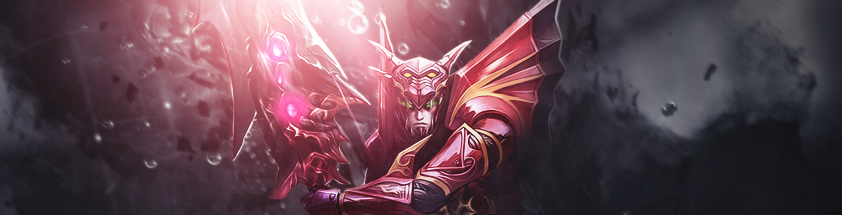
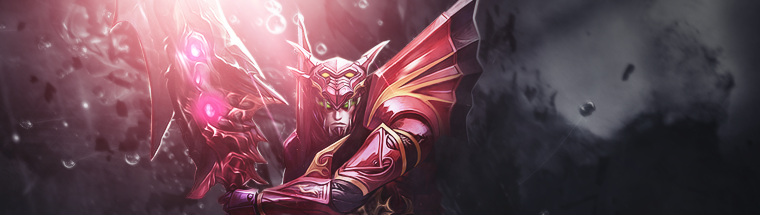
Version 0.1.4 fix3

diff --git a/index.html b/index.html
@@ -22,7 +22,7 @@
 
         <div class="hero">
           <div class="hero-container">
-            <img src="images/hero1.png" alt="">
+            <img src="images/hero.png" alt="">
             <div class="centrado">
               <h2>Mu Online <br>New Age</h2>
             </div>

diff --git a/registro.html b/registro.html
@@ -22,7 +22,7 @@
 
         <div class="hero">
           <div class="hero-container">
-            <img src="images/hero1.png" alt="">
+            <img src="images/hero.png" alt="">
             <div class="centrado">
               <h2>Mu Online <br>New Age</h2>
             </div>

diff --git a/css/estilos.css b/css/estilos.css
@@ -142,7 +142,7 @@ a{
 .centrado{
     position: absolute;
     top: 50%;
-    left: 50%;
+    left: 48%;
     transform: translate(55%, -50%);
     font-family: 'Black Ops One', cursive;
     font-size: 2.5em;
